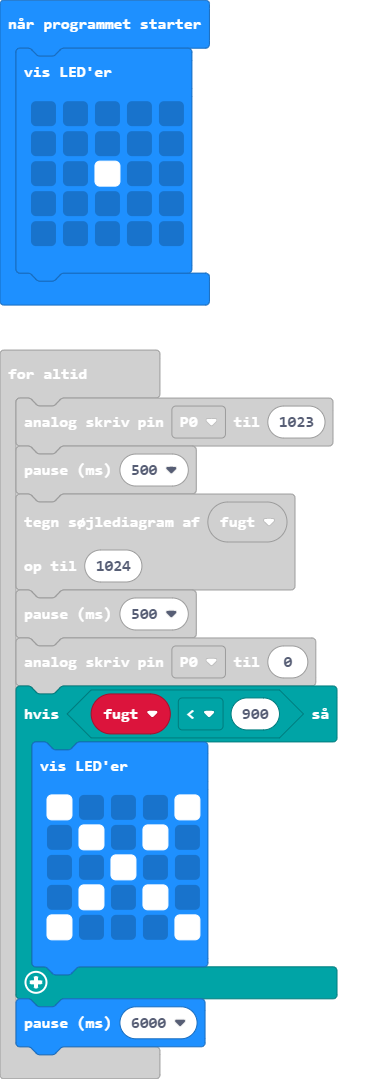
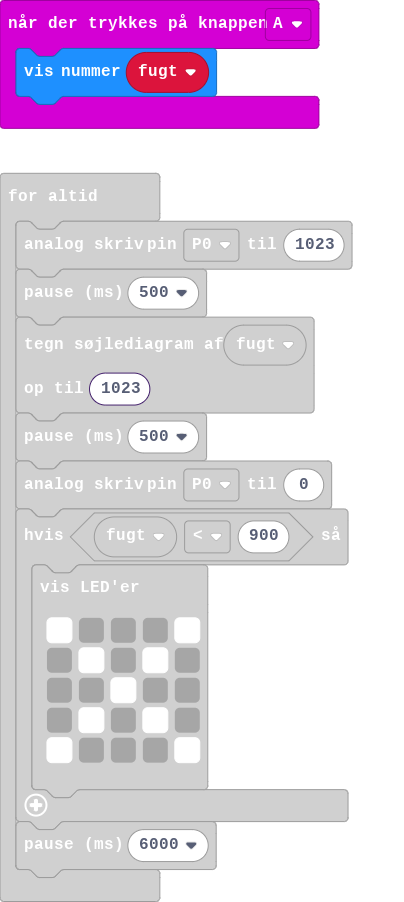
Opdater main.blocks, main.ts

diff --git a/main.ts b/main.ts
@@ -1,3 +1,6 @@
+input.onButtonPressed(Button.A, function () {
+    basic.showNumber(fugt)
+})
 let fugt = 0
 basic.showLeds(`
     . . . . .
@@ -11,7 +14,7 @@ basic.forever(function () {
     basic.pause(500)
     led.plotBarGraph(
     fugt,
-    1024
+    1023
     )
     basic.pause(500)
     pins.analogWritePin(AnalogPin.P0, 0)
